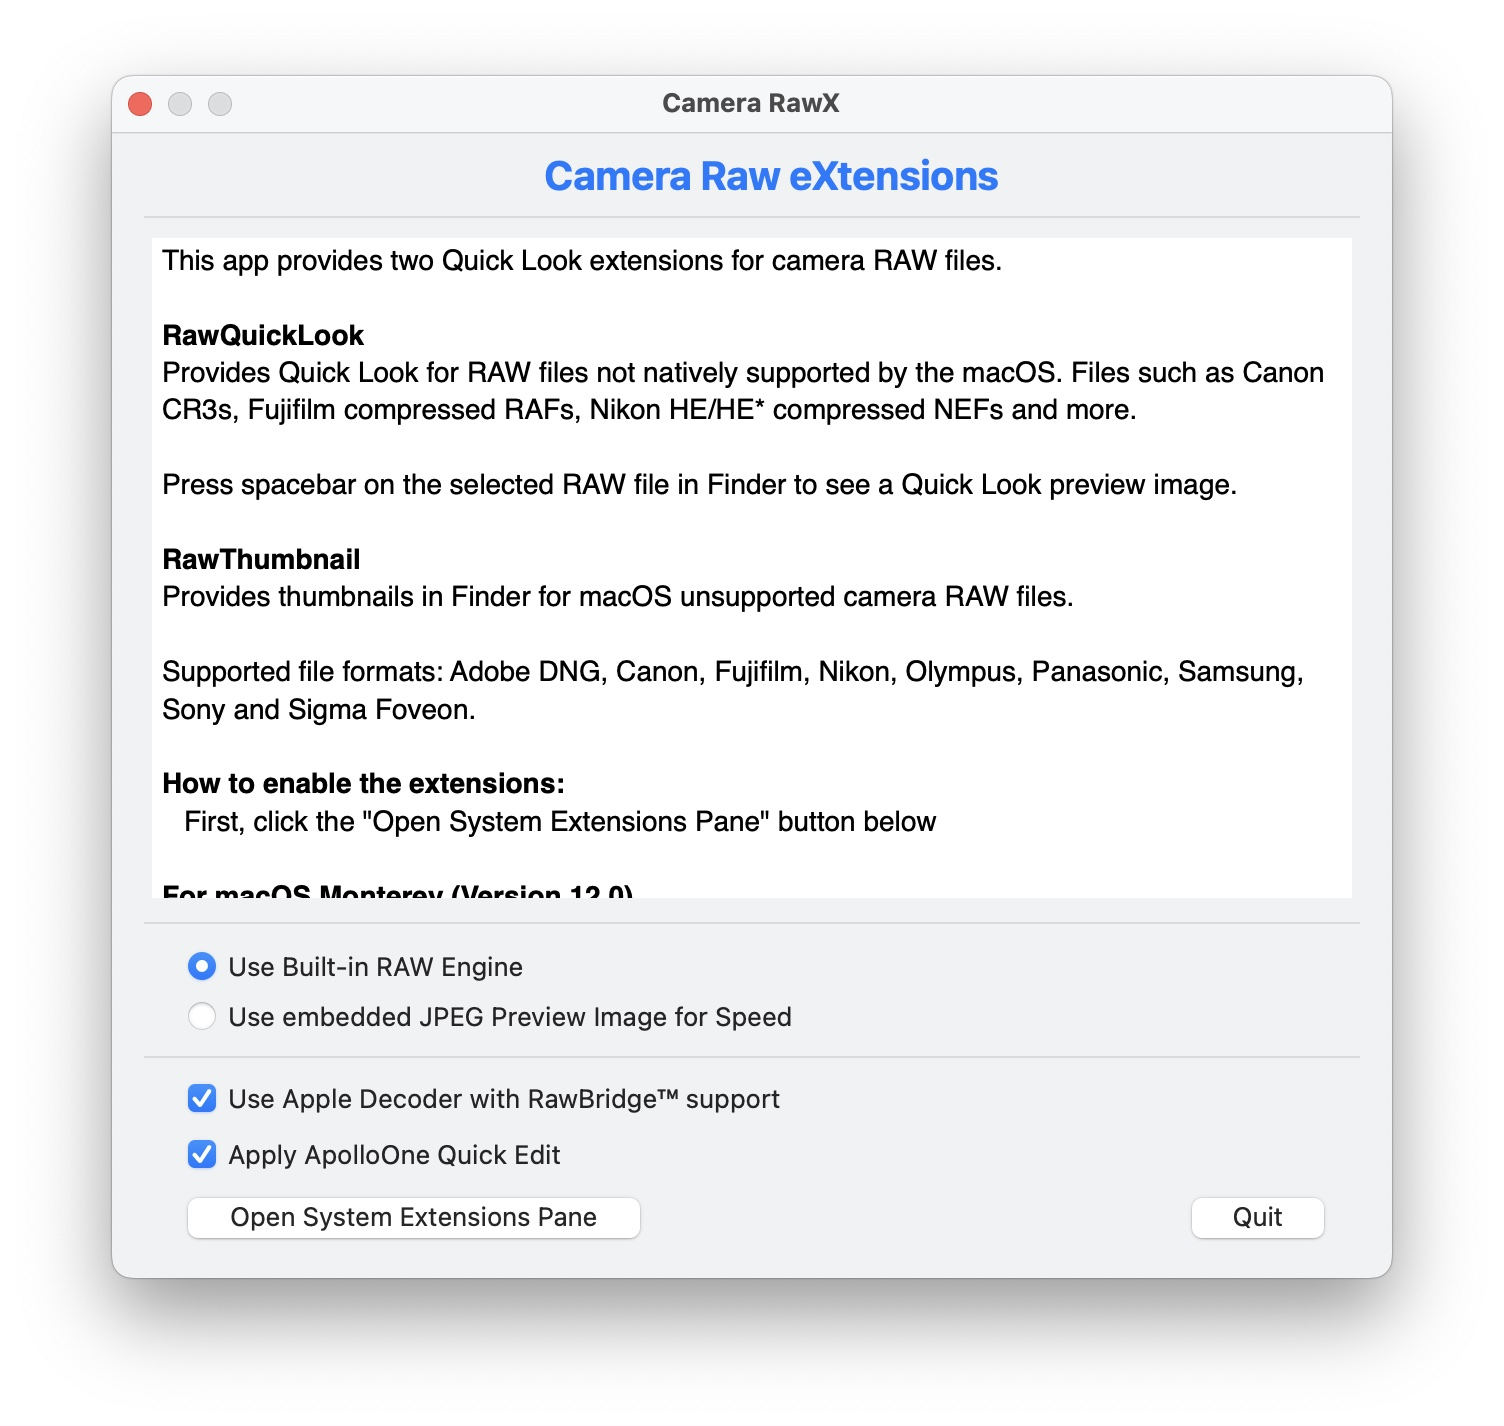
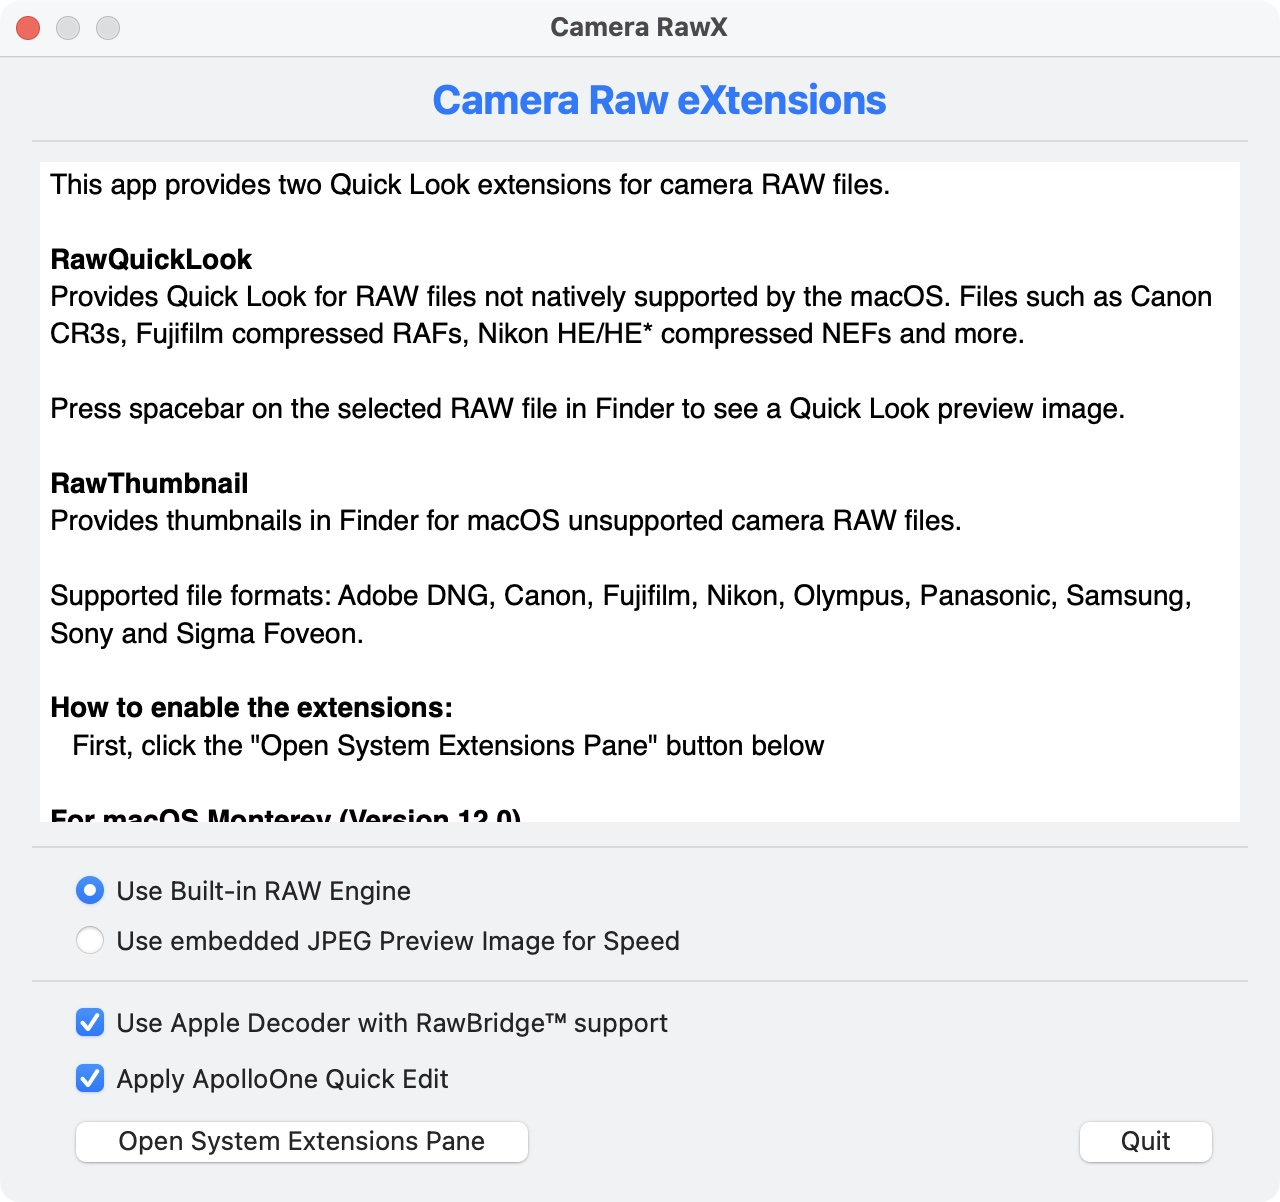
Update Camera RawX window screenshot, cap at retina logical size (640px)

diff --git a/camerarawx.html b/camerarawx.html
@@ -84,7 +84,7 @@
         <h2>Simple Setup, Flexible Options</h2>
         <p>One window, two extensions. Choose between the <strong>built-in RAW engine</strong> or embedded JPEG previews for speed. Enable <strong>Apple Decoder with RawBridge™</strong> support and optionally apply ApolloOne Quick Edit adjustments to your previews.</p>
     </div>
-    <div class="feature-image">
+    <div class="feature-image feature-image-retina">
         <img src="images/camerarawx-window.jpg" alt="Camera RawX settings window" loading="lazy">
     </div>
 </section>

diff --git a/css/product.css b/css/product.css
@@ -183,6 +183,12 @@
     margin-bottom: 12px;
 }
 
+/* Retina-sized images — constrain to logical pixel width */
+.feature-image-retina img {
+    max-width: 640px;
+    width: 100%;
+}
+
 /* Footnote */
 .product-footnote {
     font-size: 14px;
